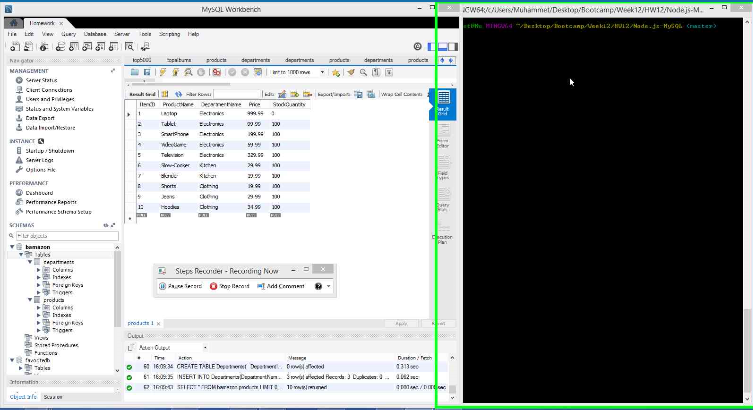
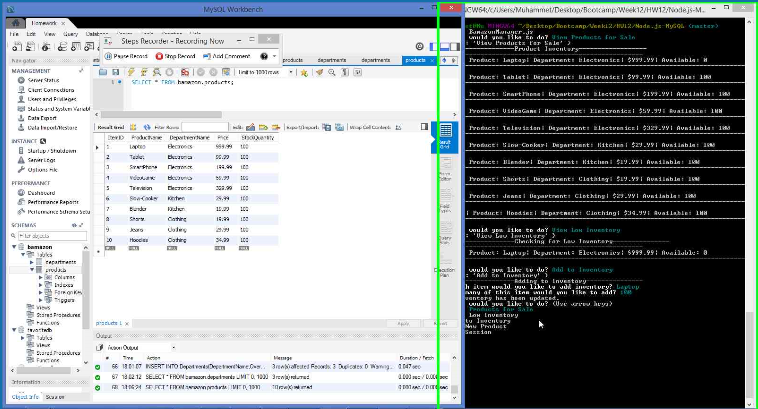
Everything Working yesssssgit add .

Changed region(s): [[0.0, 0.0, 1.0, 1.0], [0.3971, 0.7922, 0.4276, 0.8215]]

diff --git a/BamazonManager.js b/BamazonManager.js
@@ -24,7 +24,7 @@ function start(){
     } else if (answer.menu == 'Add to Inventory'){
       addToInventory();
     } else if (answer.menu == 'Add New Product'){
-      addNewProducts();
+      addNewProduct();
     } else{
       console.log('Until Next Time!')
     }

diff --git a/README.md b/README.md
@@ -64,8 +64,10 @@ Week 12 HW for Rutgers Coding Bootcamp. The goal was to create an Amazon-like st
   * ![4](/images/Customer4.PNG)
 
 ### BamazonManager.js 
-  * ![1](/images/Manager3.PNG)
-  * ![2](/images/Manager4.PNG)
+  * ![1](/images/Manager1.PNG)
+  * ![2](/images/Manager2.PNG)
+  * ![3](/images/Manager3.PNG)
+  * ![4](/images/Manager4.PNG)
 
 ### ExecutiveManager.js 
   * ![1](/images/Executive1.PNG)
